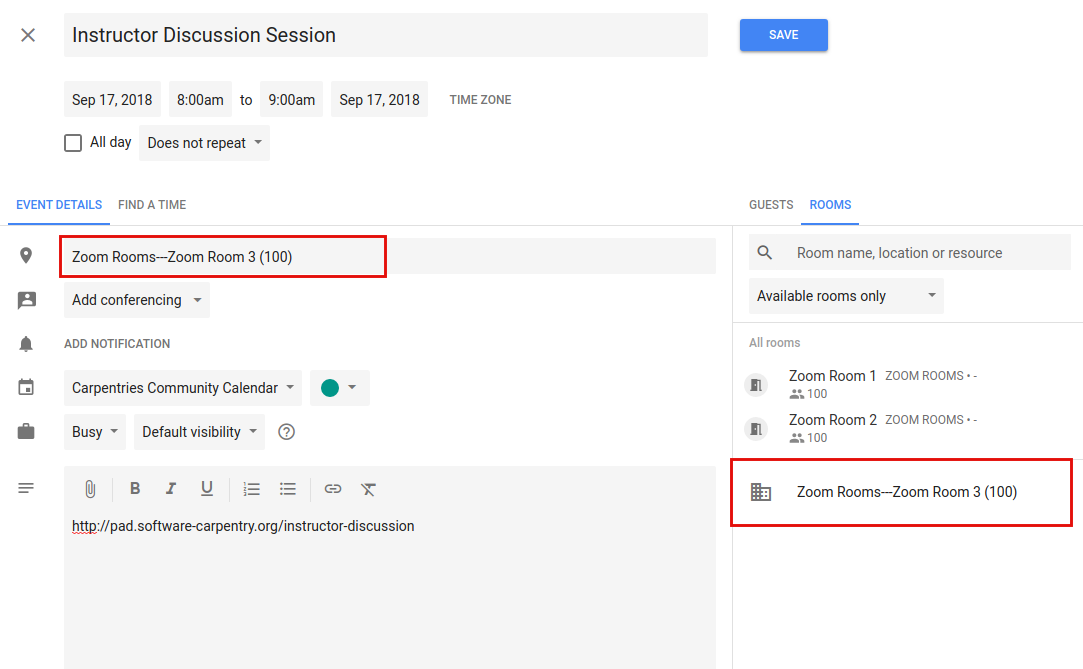
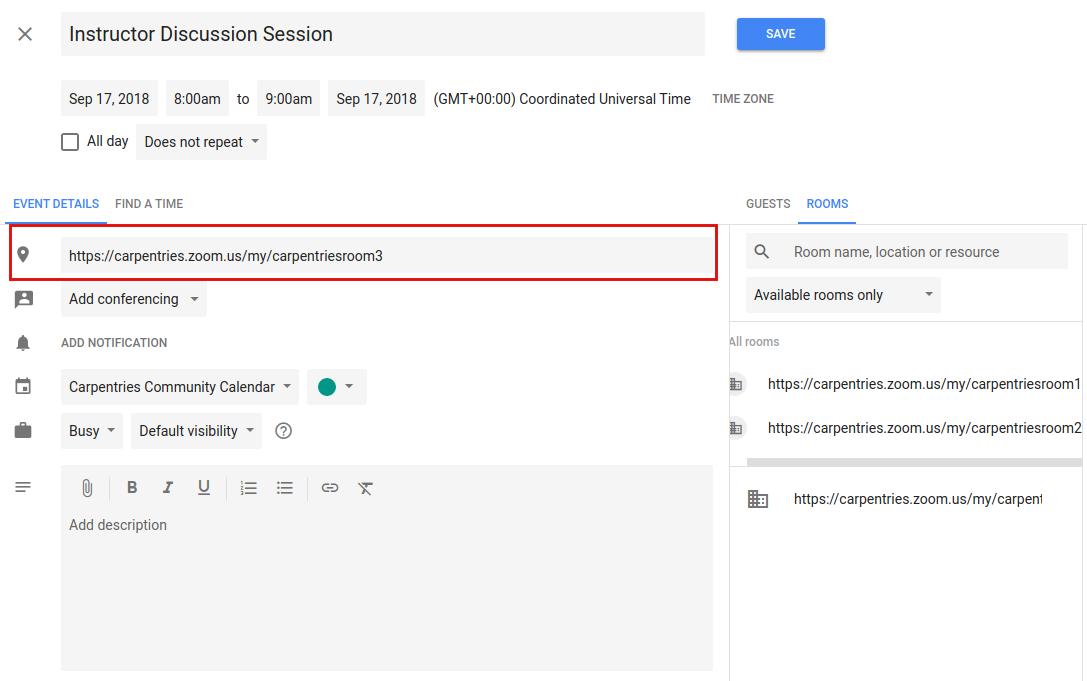
update zoom room scheduling info

diff --git a/topic_folders/communications/zoom_rooms.md b/topic_folders/communications/zoom_rooms.md
@@ -4,7 +4,8 @@
 <script type="text/javascript">
   $(function(){
   var timezone = jstz.determine();
-  var pt1 = '<iframe src="https://calendar.google.com/calendar/embed?title=The%20Carpentries%20Zoom%20Room%20Calendar&mode=WEEK&src=carpentries.org_35343537393139313639%40resource.calendar.google.com&src=carpentries.org_3339393239343835343734@resource.calendar.google.com&src=carpentries.org_3430303438333733343331@resource.calendar.google.com&ctz='
+  // var pt1 = '<iframe src="https://calendar.google.com/calendar/embed?title=The%20Carpentries%20Zoom%20Room%20Calendar&mode=WEEK&src=carpentries.org_31323339303138313831%40resource.calendar.google.com&src=carpentries.org_32323738323534333230@resource.calendar.google.com&src=carpentries.org_393634313731303431@resource.calendar.google.com&ctz='
+  var pt1 = '<iframe src="https://calendar.google.com/calendar/embed?title=The%20Carpentries%20Zoom%20Room%20Calendar&mode=WEEK&src=carpentries.org_31323339303138313831%40resource.calendar.google.com&color=%23711616&src=carpentries.org_32323738323534333230@resource.calendar.google.com&color=%23BE6D00&src=carpentries.org_393634313731303431@resource.calendar.google.com&color=%232F6309&ctz='
   var pt2 = '" style="border: 0" width="800" height="600" frameborder="0" scrolling="no"></iframe>'
   full_link = pt1 + timezone.name() + pt2;
   document.getElementById('zoom_calendar').innerHTML = full_link;
@@ -26,5 +27,74 @@ Links below will open Zoom and enter the respective room.
 * [**Room 2:**](https://carpentries.zoom.us/my/carpentriesroom2) Instructor Training backup
 * [**Room 3:**](https://carpentries.zoom.us/my/carpentriesroom3) Community events (teaching demos, discussion sessions, committee meetings, etc.)
 
-Documentation on viewing room availability and reserving rooms is forthcoming. Please contact team@carpentries.org with any questions.
+
+Each room can have a host who will have privileges to mute people, create breakout rooms, etc.  Please contact team@carpentries.org if you would like host privileges for an event.
+
+#### Viewing Zoom Room availability
+
+Zoom room calendar views are public - anyone can view whether a room is available.  Only Carpentries staff members can actually book a room. If a room is available, please contact a staff member or team@carpentries.org if you would like to make a room reservation.
+
+Room availability can be viewed below. 
+* Red: Room 1
+* Orange: Room 2
+* Green: Room 3
+
+<div id = 'zoom_calendar'>Placeholder: Embedded Zoom Room Calendar</div>
+
+<p>
+
+#### Adding an Event to the Community Calendar
+
+Note while anyone can view room availability, only Carpentries staff members may book events or reserve a Zoom room.
+
+To add an event to the [Community Calendar](https://calendar.google.com/calendar/embed?src=oseuuoht0tvjbokgg3noh8c47g%40group.calendar.google.com&ctz=America%2FNew_York) and book a Zoom Room for it:
+
+* Give the event a meaningful title ("Demos" is not as good as "Instructor Training Teaching Demos")
+* List the time zone in UTC - not your local time zone.  Events set in local time zones do not always correctly adjust for daylight savings time.
+* Add a description, including a link to the relevant etherpad or other document.
+
+![Event Setup](images/event_setup.png)
+
+* Select a room.
+
+    ![View Rooms](images/view_rooms.png)
+
+    * Each available room will be listed. If you are scheduling a recurring event, any future conflict will prevent a given room from being listed as available.
+    * Multiple rooms can be selected for a single event.
+    * Click on a room to select it.  The Zoom link will now appear in the location.
+
+    ![Reserved Room](images/reserved_room.png)
+
+    * If you select a room and immediately remove it, it may not appear as available again until you close out the edit event screen and enter it again.
+    * Save the event.
+    * The event will now show up on the Carpentries Community Calendar and the Zoom Rooms Calendar.
+
+
+Be sure to complete the above steps in order (i.e., do not select a room before setting the exact date and time).
+
+
+<p>
+
+#### Creating a Zoom Room Option on Google Calendars
+
+This will only need to be done once for each new room.  This is already done for Zoom Rooms 1, 2, and 3.  If additional Zoom rooms are added, they will need to be set up here.  This must be done by someone with admin access to The Carpentries' Google console.  
+
+Go to the [Google admin console](https://admin.google.com/AdminHome?hl=en).  Click on "Buildings and Resources" and then click "Edit Resources" under "Resource Management."
+
+You will see all existing buildings and rooms listed. This feature is meant for physical buildings; we are using it for virtual videoconferencing rooms. One "building" is set up, called "Zoom Rooms" that contains three resouces -- Zoom Room 1, Zoom Room 2, and Zoom Room 3.  
+
+To add a new "room" in this "building" - click on the yellow plus sign next to "Resources."  Fill out the following information:
+
+* Category: (no category set)
+* Type: *leave blank*
+* Building: Undefined
+* Floor: Undefined
+* Floor section: *leave blank*
+* Resource name: Link to the Zoom Room
+* Capacity: 100 (standard for all Zoom rooms)
+* Features: *leave blank*
+* User visible description: Note what this room is used for.
+
+When done, click "ADD RESOURCE" and this new room should be on your list of rooms.  This room will now be available for scheduling events as described below.
+
 
